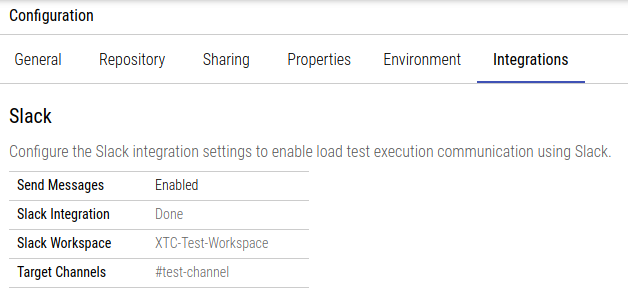
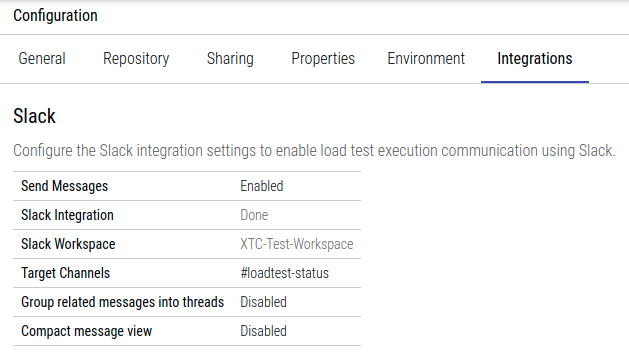
updated slack screenshots, cleared format, added message format options

Changed region(s): [[0.0, 0.2793, 1.0, 0.9931], [0.0, 0.031, 1.0, 0.2483]]

diff --git a/content/en/xtc/integrations/510-slack.md b/content/en/xtc/integrations/510-slack.md
@@ -10,53 +10,91 @@ description: >
 
 XTC can integrate with [Slack](https://slack.com) to send notifications about certain system event to public channels. Notifications include state changes for load tests or monitoring events.
 
-### Configuration
+## Configuration
 
 Slack notifications can be configured either at the organization or project level.
 
-{{< image src="xtc/slack-config-readonly.png" max-width="80%" >}}
-Default configuration values at the organization level: message sending is disabled, the integration is not configured and no target channels are set.
+{{% permission type="organization" least="true" role="organization administrator" action="configure Slack integration on org level" %}} 
+
+{{% permission type="project" least="true" role="project administrator" action="configure Slack integration on project level" %}}
+
+{{< image src="xtc/slack-config-readonly.png" max-width="90%" >}}
+Default configuration values at the organization level: message sending is disabled, the integration is not configured and no target channels are set. Threads and compact messages are disabled.
 {{< /image >}}
 
 Organization-level configuration values take effect in all the organization's projects unless explicitly overridden. Overriding occurs at a value level, i.e. not setting a specific configuration value at the project level will leave the corresponding value of the organization's config in place.
 
-{{< image src="xtc/slack-config-override.png" max-width="80%" >}}
+{{< image src="xtc/slack-config-override.png" max-width="90%" >}}
 An integration config of a project with the "Send messages" overriden and all other values inherited from the surrounding organization.
 {{< /image >}}
 
-### Configuration Values
+## Configuration Values
+
+Clicking the edit button on the Slack configuration opens the configuration form for setting up or removing the integration and editing its settings:
 
 {{< image src="xtc/slack-config.png" max-width="80%" >}}
 The Slack integration config form
 {{< /image >}}
 
-* **Send messages** The Slack integration will not send any messages unless enabled. If a project has a configuration, this value will *always* override the organization's setting, i.e. projects with this set to "Disabled" will not send messages even if their containing organization has the integration enabled.
-* **Set Up Slack Integration** This will forward the browser to Slack to initiate the integration process. If your Slack user has the appropriate permissions within the Slack workspace you will be presented with a screen to confirm the installation of XTC in your workspace. Upon confirmation you will be redirected back to the configuration overview where **Slack Integration** now should have changed to "Done" and and the **Slack Workspace** should contain the name of the Slack workspace you just installed XTC to.
-  {{< image src="xtc/slack-config-token-installed.png" max-width="80%" >}}
-  Slack integration installed into a workspace named "XTC-Test-Workspace"
-  {{< /image >}}
-  {{% warning notitle %}}
-  Clicking the "Set Up Slack Integration" button will forward you to Slack *without* saving the form contents.
-  {{% /warning %}}
-  {{% note notitle %}}
-  If your Slack workspace is set up to require app approval, you may be presented with a screen to request said approval from an appropriate user in your workspace. Once this approval has been granted you can just restart the setup from the XTC config form.
-  {{% /note %}}
-  When an integration is set up on the project level it will override any inherited values from the surrounding organization.
-* **Remove Slack Integration** Removing the integration from your organization or project will remove all necessary integration data. In order to re-enable the integration again, you will have to repeat the setup process, potentially including any confirmation process within Slack.
-  {{% note notitle %}}
-  When removing the integration from a project the integration of the surrounding organization takes effect. XTC does not allow projects to override an organization-wide integration with "empty data".
-  {{% /note %}}
-* **Target Channels** The channels to send messages to. Separate multiple channels using spaces. This value will override inherited values only if it is non-empty.
-  {{% note notitle %}}
-  XTC does *NOT* support sending messages to individual users or private channels.
-  {{% /note %}}
-* **Send Test Message** If a complete configuration (i.e. integration data and target channels) is available (inherited or configured directly), admins can send a test message to check for a correct setup. Please check in your Slack client whether the message arrived as expected. If not please re-check the configured values.
+### Send messages
 
-### Notification Events
+The Slack integration will not send any messages unless enabled. If a project has a configuration, this value will *always* override the organization's setting, i.e. projects with this set to "Disabled" will not send messages even if their containing organization has the integration enabled.
+
+### Set Up Slack Integration
+
+This will forward the browser to Slack to initiate the integration process. If your Slack user has the appropriate permissions within the Slack workspace you will be presented with a screen to confirm the installation of XTC in your workspace. Upon confirmation you will be redirected back to the configuration overview where **Slack Integration** now should have changed to "Done" and and the **Slack Workspace** should contain the name of the Slack workspace you just installed XTC to.
+
+{{< image src="xtc/slack-config-token-installed.png" max-width="80%" >}}
+Slack integration installed into a workspace named "XTC-Test-Workspace"
+{{< /image >}}
+  
+{{% warning notitle %}}
+Clicking the "Set Up Slack Integration" button will forward you to Slack *without* saving the form contents.
+{{% /warning %}}
+  
+{{% note notitle %}}
+If your Slack workspace is set up to require app approval, you may be presented with a screen to request said approval from an appropriate user in your workspace. Once this approval has been granted you can just restart the setup from the XTC config form.
+{{% /note %}}
+
+When an integration is set up on the project level it will override any inherited values from the surrounding organization.
+
+### Remove Slack Integration
+
+Removing the integration from your organization or project will remove all necessary integration data. In order to re-enable the integration again, you will have to repeat the setup process, potentially including any confirmation process within Slack.
+
+{{% note notitle %}}
+When removing the integration from a project the integration of the surrounding organization takes effect. XTC does not allow projects to override an organization-wide integration with "empty data".
+{{% /note %}}
+
+### Target Channels
+
+The channels to send messages to. Separate multiple channels using spaces. This value will override inherited values only if it is non-empty.
+  
+{{% note notitle %}}
+XTC does *NOT* support sending messages to individual users or private channels.
+{{% /note %}}
+
+### Message Grouping / Compact View
+
+As the default message style takes up quite some space in the Slack channel, it might be desirable to get a more compact message view. This can be achieved by choosing the _Compact Message View_ and/or by _Grouping related messages into threads_ (e.g. all messages about the status of one load test). 
+
+{{< image src="xtc/slack-format-thread.png" max-width="90%" >}}
+Default message format with thread for subsequent messages about the same load test.
+{{< /image >}}
+
+{{< image src="xtc/slack-format-compact.png" max-width="90%" >}}
+A message in compact format.
+{{< /image >}}
+
+### Send Test Message
+
+If a complete configuration (i.e. integration data and target channels) is available (inherited or configured directly), admins can send a test message to check for a correct setup. Please check in your Slack client whether the message arrived as expected. If not please re-check the configured values.
+
+## Notification Events
 
 Once configured XTC will send notifications for the following events:
 
-#### Load Tests
+### Load Tests
   * **Start** A user started a load test from the UI.
   * **Running** The setup phase is complete; the actual test run starts.
   * **Finished** The test run is done.
@@ -65,6 +103,6 @@ Once configured XTC will send notifications for the following events:
 
 Additionally XTC will also send notifications when intermediate reports become available.
 
-#### Monitoring
+### Monitoring
 
 If a scenario is configured to notify via Slack, XTC will send notifications the same way it would send e-mails or text messages.
